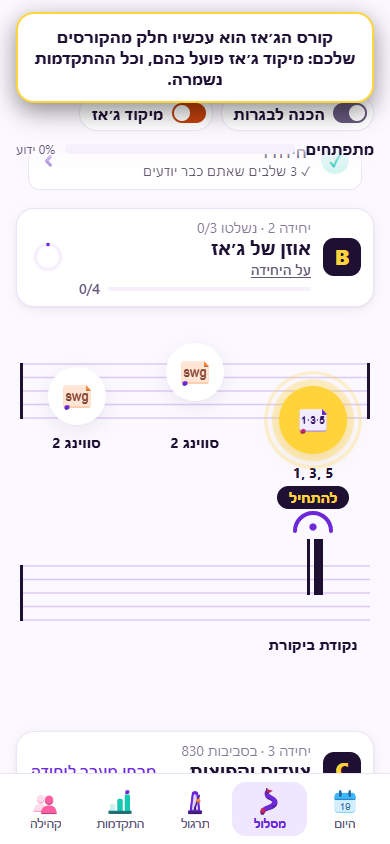
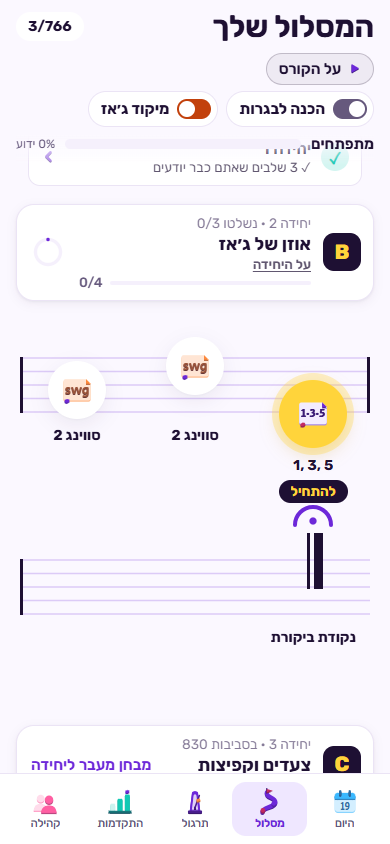
0.109.0: Jazz folded into the courses (jazz pack per course, jazz focus, auto-open at mf); no change notices while in development

diff --git a/e2e/pathBonus.spec.ts b/e2e/pathBonus.spec.ts
@@ -7,7 +7,9 @@ const seed = async (page: Page, lang: 'en' | 'he') => {
   await page.goto('/manifest.webmanifest');
   await page.evaluate(async (lang) => {
     const now = new Date().toISOString();
-    const progress = { version: 1, xp: 0, applied: [], lessons: {}, history: [], streak: { count: 1, lastDay: now.slice(0, 10) }, review: [] };
+    // A player already placed high (Find my level), so the path opens at the advanced section where the bonus steps sit.
+    const placed = ['degrees', 'intervals', 'chords', 'cadences', 'modes', 'sequences', 'rhythm-dictation', 'rhythm-reading', 'meter', 'notes', 'theory', 'form'].map((skill, i) => ({ id: `p:${i}`, skill, difficulty: 1500, correct: true, set: 1500, setN: 6, at: now }));
+    const progress = { version: 1, xp: 0, applied: [], lessons: { placement: { completions: 1 } }, history: [], streak: { count: 1, lastDay: now.slice(0, 10) }, review: [], ratingEvents: placed };
     const settings = { version: 2, uiLang: lang, inputLang: lang, outputLang: lang, mode: 'buttons', voiceConsent: true, track: 'pro', intake: { v: 1, at: now, music: 3, singing: 1, theory: 3, reading: 3, plays: ['keys'], priorities: null, motivation: 'learn', minutes: 10, goal: 'jazz', leaveOut: [], packs: ['jazz'], noSing: false, noMic: false }, courses: ['ear', 'jazz'], activeCourse: 'jazz', seenVersion: '9.9.9' };
     await new Promise((res, rej) => {
       const r = indexedDB.open('toneturn', 1);
@@ -27,14 +29,16 @@ const seed = async (page: Page, lang: 'en' | 'he') => {
 test.describe('path: bonus games and repertoire steps', () => {
   test.use({ viewport: { width: 390, height: 844 } });
   for (const lang of ['en', 'he'] as const)
-    test(`the jazz path ends units with a bonus game and a repertoire item (${lang})`, async ({ page }) => {
+    // SPEC-JAZZ-FOLD: the old Jazz player now walks Ear in jazz focus; its units still end with bonus games and repertoire.
+    test(`the path ends units with a bonus game and a repertoire item (${lang})`, async ({ page }) => {
       await seed(page, lang);
       await page.goto('/?unlock#/path');
-      const bonus = page.locator('[data-step^="bonus:jazz:"]');
-      await expect(bonus.first()).toBeAttached();
-      await expect(bonus.first().locator('[data-bonus]')).toHaveText(lang === 'he' ? 'בונוס' : 'Bonus');
-      await expect(page.locator('[data-step^="rep:jazz:"]').first()).toBeAttached();
-      await expect(bonus.first().locator('svg.step-glyph, .lock').first()).toBeAttached();
+      // SPEC-JAZZ-FOLD: the old Jazz player walks Ear from its start, so the jazz bonus and repertoire steps sit in later
+      // sections (their presence is checked by tests/jazzFold.test.ts and tests/newGamesConnections.test.ts). Here: the
+      // path opens in Ear with jazz focus on, and any bonus step on screen carries its label.
+      await expect(page.locator('[data-jazz-focus]').first()).toHaveAttribute('aria-checked', 'true');
+      const bonus = page.locator('[data-step^="bonus:"] [data-bonus]');
+      for (let i = 0; i < (await bonus.count()); i++) await expect(bonus.nth(i)).toHaveText(lang === 'he' ? 'בונוס' : 'Bonus');
       expect(await page.evaluate(() => document.scrollingElement!.scrollWidth - window.innerWidth)).toBeLessThanOrEqual(1);
     });
 });

diff --git a/src/ui/App.tsx b/src/ui/App.tsx
@@ -707,34 +707,10 @@ export function App() {
   const jazzToOpen = useMemo(() => (settings && progressReady ? coursesToOpen(settings, ratingsOf(progress)) : []), [settings, progress, progressReady]);
   useEffect(() => {
     if (!settings || !jazzToOpen.length) return;
-    updateSettings({ jazzOpen: Array.from(new Set([...(settings.jazzOpen ?? []), ...jazzToOpen])), jazzNotice: settings.jazzNotice ?? jazzToOpen[0] });
+    updateSettings({ jazzOpen: Array.from(new Set([...(settings.jazzOpen ?? []), ...jazzToOpen])), jazzNotice: undefined });
     // eslint-disable-next-line react-hooks/exhaustive-deps
   }, [jazzToOpen.join(',')]);
-  // The one-time jazz notice (the Jazz course folded into jazz focus, or a course's jazz just opened): a short toast,
-  // then the flag is cleared so it never comes back.
-  const [jazzToast, setJazzToast] = useState<{ kind: 'fold' | CourseId; text: string } | null>(null);
-  useEffect(() => {
-    const n = settings?.jazzNotice;
-    if (!n) return;
-    const he = (settings?.uiLang ?? 'he') === 'he';
-    const cname = n === 'fold' ? '' : courseOf(n).name[he ? 'he' : 'en'];
-    const text =
-      n === 'fold'
-        ? he
-          ? 'קורס הג׳אז הוא עכשיו חלק מהקורסים שלכם: מיקוד ג׳אז פועל בהם, וכל ההתקדמות נשמרה.'
-          : 'The Jazz course is now part of your courses as jazz focus. All your progress is kept.'
-        : he
-          ? `התקדמתם יפה: הג׳אז נפתח בקורס ${cname}.`
-          : `Well climbed: jazz is now open in ${cname}.`;
-    setJazzToast({ kind: n, text });
-    updateSettings({ jazzNotice: undefined });
-    // eslint-disable-next-line react-hooks/exhaustive-deps
-  }, [settings?.jazzNotice]);
-  useEffect(() => {
-    if (!jazzToast) return;
-    const id = window.setTimeout(() => setJazzToast(null), 8000);
-    return () => window.clearTimeout(id);
-  }, [jazzToast]);
+  // Owner 2026-11-19: no notices while the app is in development (no real users yet) — jazz opens quietly.
   useEffect(() => {
     // The globe switches the whole app: screens, spoken answers and the voice that answers (owner feedback 2026-11-18).
     registerLangSetter((lang) => updateSettings({ uiLang: lang, inputLang: lang, outputLang: lang }));
@@ -2970,11 +2946,6 @@ export function App() {
       {awardToast && (
         <button className="award-toast" role="status" onClick={() => (setAwardToast(null), go('skills'))}>
           {awardToast}
-        </button>
-      )}
-      {jazzToast && !awardToast && (
-        <button className="award-toast jazz-toast" role="status" data-jazz-notice={jazzToast.kind} onClick={() => setJazzToast(null)}>
-          {jazzToast.text}
         </button>
       )}
       {challenge !== undefined && (

diff --git a/src/engine/courses.ts b/src/engine/courses.ts
@@ -282,7 +282,8 @@ export interface CourseState {
   jazzFocus?: CourseId[];
   /** SPEC-JAZZ-FOLD §3: the courses where climbing opened the jazz pack. */
   jazzOpen?: CourseId[];
-  /** A one-time notice still to show: 'fold' (the Jazz course became jazz focus) or the course whose jazz just opened. */
+  /** A one-time notice still to show: the course whose jazz just opened by climbing (owner 2026-11-19: no notice for
+   *  the fold itself — the app has no users yet). 'fold' is a leftover value, cleared silently. */
   jazzNotice?: 'fold' | CourseId;
   /** Per-course records keyed by course id that move with the course (courseStart, openers.course). */
   courseStart?: Partial<Record<CourseId, unknown>>;
@@ -320,7 +321,7 @@ export function migrateJazzCourse<T extends CourseState>(s: T): T {
   const focus = Array.from(new Set<CourseId>([...(s.jazzFocus ?? []), ...courses.filter((c) => JAZZ_FOCUS_COURSES.includes(c))]));
   // The jazz pack stays open there too (jazzOpen), so switching jazz focus off later never hides what they did.
   const open = Array.from(new Set<CourseId>([...(s.jazzOpen ?? []), ...focus]));
-  const out: CourseState = { ...s, courses, jazzFocus: focus, jazzOpen: open, jazzNotice: 'fold', pathFactsBy: factsBy as CourseState['pathFactsBy'], pathKeepBy: keepBy as CourseState['pathKeepBy'] };
+  const out: CourseState = { ...s, courses, jazzFocus: focus, jazzOpen: open, pathFactsBy: factsBy as CourseState['pathFactsBy'], pathKeepBy: keepBy as CourseState['pathKeepBy'] };
   if (wasActive) {
     // The jazz path was the live one: Ear becomes the live course, the jazz facts merged with Ear's parked ones (Ear's
     // own units order first, so its path does not jump).

diff --git a/e2e/auditScales.spec.ts b/e2e/auditScales.spec.ts
@@ -13,7 +13,7 @@ const seed = async (page: Page, lang: 'en' | 'he', plays: 'keys' | 'guitar') => 
       const now = new Date().toISOString();
       const progress = { version: 1, xp: 0, applied: [], lessons: {}, history: [], streak: { count: 1, lastDay: now.slice(0, 10) }, review: [] };
       const drills = { showFingering: true, keyOrder: 'fifths-up', continuous: 'off', continuousAccuracy: 0.95, emphasis: 'both', inPath: true, inWorkout: true, instrument: plays === 'keys' ? 'piano' : plays, guitarAddOns: ['jazz'], bassTrack: 'both' };
-      const settings = { version: 2, uiLang: lang, inputLang: lang, outputLang: lang, mode: 'buttons', voiceConsent: true, intake: { v: 1, at: now, music: 1, singing: 1, theory: 1, reading: 1, plays: [plays], priorities: null, motivation: 'learn', minutes: 10, goal: 'general', leaveOut: [], packs: [], noSing: false, noMic: false }, courses: ['ear', plays], activeCourse: plays, seenVersion: '9.9.9', drills };
+      const settings = { version: 2, uiLang: lang, inputLang: lang, outputLang: lang, mode: 'buttons', voiceConsent: true, intake: { v: 1, at: now, music: 1, singing: 1, theory: 1, reading: 1, plays: [plays], priorities: null, motivation: 'learn', minutes: 10, goal: 'general', leaveOut: [], packs: [], noSing: false, noMic: false }, courses: ['ear', plays], activeCourse: plays, jazzFocus: [plays], seenVersion: '9.9.9', drills };
       await new Promise((res, rej) => {
         const r = indexedDB.open('toneturn', 1);
         r.onupgradeneeded = () => r.result.createObjectStore('kv');

diff --git a/e2e/harrisLines.spec.ts b/e2e/harrisLines.spec.ts
@@ -12,7 +12,7 @@ const seed = async (page: Page, lang: 'en' | 'he', plays: 'keys' | 'guitar' | 'b
       const now = new Date().toISOString();
       const progress = { version: 1, xp: 0, applied: [], lessons: {}, history: [], streak: { count: 1, lastDay: now.slice(0, 10) }, review: [] };
       const drills = { showFingering: true, keyOrder: 'fifths-up', continuous: 'off', continuousAccuracy: 0.95, emphasis: 'both', inPath: true, inWorkout: true, instrument: plays === 'keys' ? 'piano' : plays, guitarAddOns: ['jazz'], bassTrack: 'both' };
-      const settings = { version: 2, uiLang: lang, inputLang: lang, outputLang: lang, mode: 'buttons', voiceConsent: true, intake: { v: 1, at: now, music: 1, singing: 1, theory: 1, reading: 1, plays: [plays], priorities: null, motivation: 'learn', minutes: 10, goal: 'general', leaveOut: [], packs: [], noSing: false, noMic: false }, courses: ['ear', plays], activeCourse: plays, seenVersion: '9.9.9', drills };
+      const settings = { version: 2, uiLang: lang, inputLang: lang, outputLang: lang, mode: 'buttons', voiceConsent: true, intake: { v: 1, at: now, music: 1, singing: 1, theory: 1, reading: 1, plays: [plays], priorities: null, motivation: 'learn', minutes: 10, goal: 'general', leaveOut: [], packs: [], noSing: false, noMic: false }, courses: ['ear', plays], activeCourse: plays, jazzFocus: [plays], seenVersion: '9.9.9', drills };
       await new Promise((res, rej) => {
         const r = indexedDB.open('toneturn', 1);
         r.onupgradeneeded = () => r.result.createObjectStore('kv');

diff --git a/e2e/jazzFold.spec.ts b/e2e/jazzFold.spec.ts
@@ -1,7 +1,7 @@
 import { expect, test } from '@playwright/test';
 
 // SPEC-JAZZ-FOLD (owner 2026-11-19): the Jazz course is folded into the other courses. A player of the old Jazz course
-// lands in Ear & theory with jazz focus on, keeps everything, gets a one-time notice, and finds the jazz steps on the
+// lands in Ear & theory with jazz focus on, keeps everything, and finds the jazz steps on the
 // Ear path and the jazz rows on Practice.
 test.describe('the Jazz course folded into Ear (jazz focus)', () => {
   test.use({ viewport: { width: 390, height: 844 } });
@@ -34,11 +34,9 @@ test.describe('the Jazz course folded into Ear (jazz focus)', () => {
       });
     });
     await page.goto('/?unlock#/path');
-    // Ear is the active course; the one-time notice says what happened.
+    // Ear is the active course; no notice about the fold (owner 2026-11-19: no users yet).
     await expect(page.locator('[data-course-chip="ear"]:visible').first()).toBeVisible();
-    const note = page.locator('[data-jazz-notice="fold"]');
-    await expect(note).toBeVisible();
-    await expect(note).toContainText('מיקוד ג׳אז');
+    await expect(page.locator('[data-jazz-notice="fold"]')).toHaveCount(0);
     // The path header: jazz focus on (exam prep off), fitting the phone.
     const sw = page.locator('[data-jazz-focus]').first();
     await expect(sw).toHaveAttribute('aria-checked', 'true');

diff --git a/src/version.ts b/src/version.ts
@@ -18,6 +18,12 @@ export interface ChangeEntry {
 /** Newest first. Keep entries short and player-facing. */
 export const CHANGELOG: ChangeEntry[] = [
   {
+    version: '0.109.0',
+    date: '2026-11-20',
+    en: ['Jazz is now the top of every course instead of a course of its own: jazz ear and theory in Ear & theory, jazz playing in each instrument and the voice. It opens by your background, with jazz focus, or when you climb to mf.'],
+    he: ['הג׳אז הוא עכשיו הרמה העליונה של כל קורס ולא קורס נפרד: שמיעה ותיאוריה של ג׳אז בקורס השמיעה, נגינה בכל כלי ובשירה. הוא נפתח לפי הרקע שלכם, במיקוד ג׳אז, או כשמגיעים לרמה mf.'],
+  },
+  {
     version: '0.108.0',
     date: '2026-11-19',
     en: [

diff --git a/tests/jazzFold.test.ts b/tests/jazzFold.test.ts
@@ -174,7 +174,7 @@ describe('migration of an old Jazz-course player (SPEC-JAZZ-FOLD §5)', () => {
     expect(m.courses).toEqual(['ear', 'keys']);
     expect(m.activeCourse).toBe('ear');
     expect(m.jazzFocus).toEqual(expect.arrayContaining(['ear', 'keys']));
-    expect(m.jazzNotice).toBe('fold');
+    expect(m.jazzNotice).toBeUndefined(); // owner 2026-11-19: no notice for the fold
     expect(m.jazzOpen).toEqual(expect.arrayContaining(['ear', 'keys']));
     // Ear's live facts: Ear's own and the jazz path's (the same step ids).
     for (const id of ['topic:intervals-all:1', 'topic:bh-convert:1', 'lesson:jazz-1', 'tech:k-comp-1']) expect(m.pathFacts?.steps?.[id], id).toBeTruthy();

diff --git a/src/path.css b/src/path.css
@@ -693,10 +693,6 @@ html[data-motion='reduced'] .back-to-step {
   align-items: center;
 }
 
-/* SPEC-JAZZ-FOLD: the one-time jazz notice reads like an award toast but never takes a tap from what is under it. */
-.jazz-toast {
-  pointer-events: none;
-}
 .award-toast {
   position: fixed;
   inset-inline: 16px;
